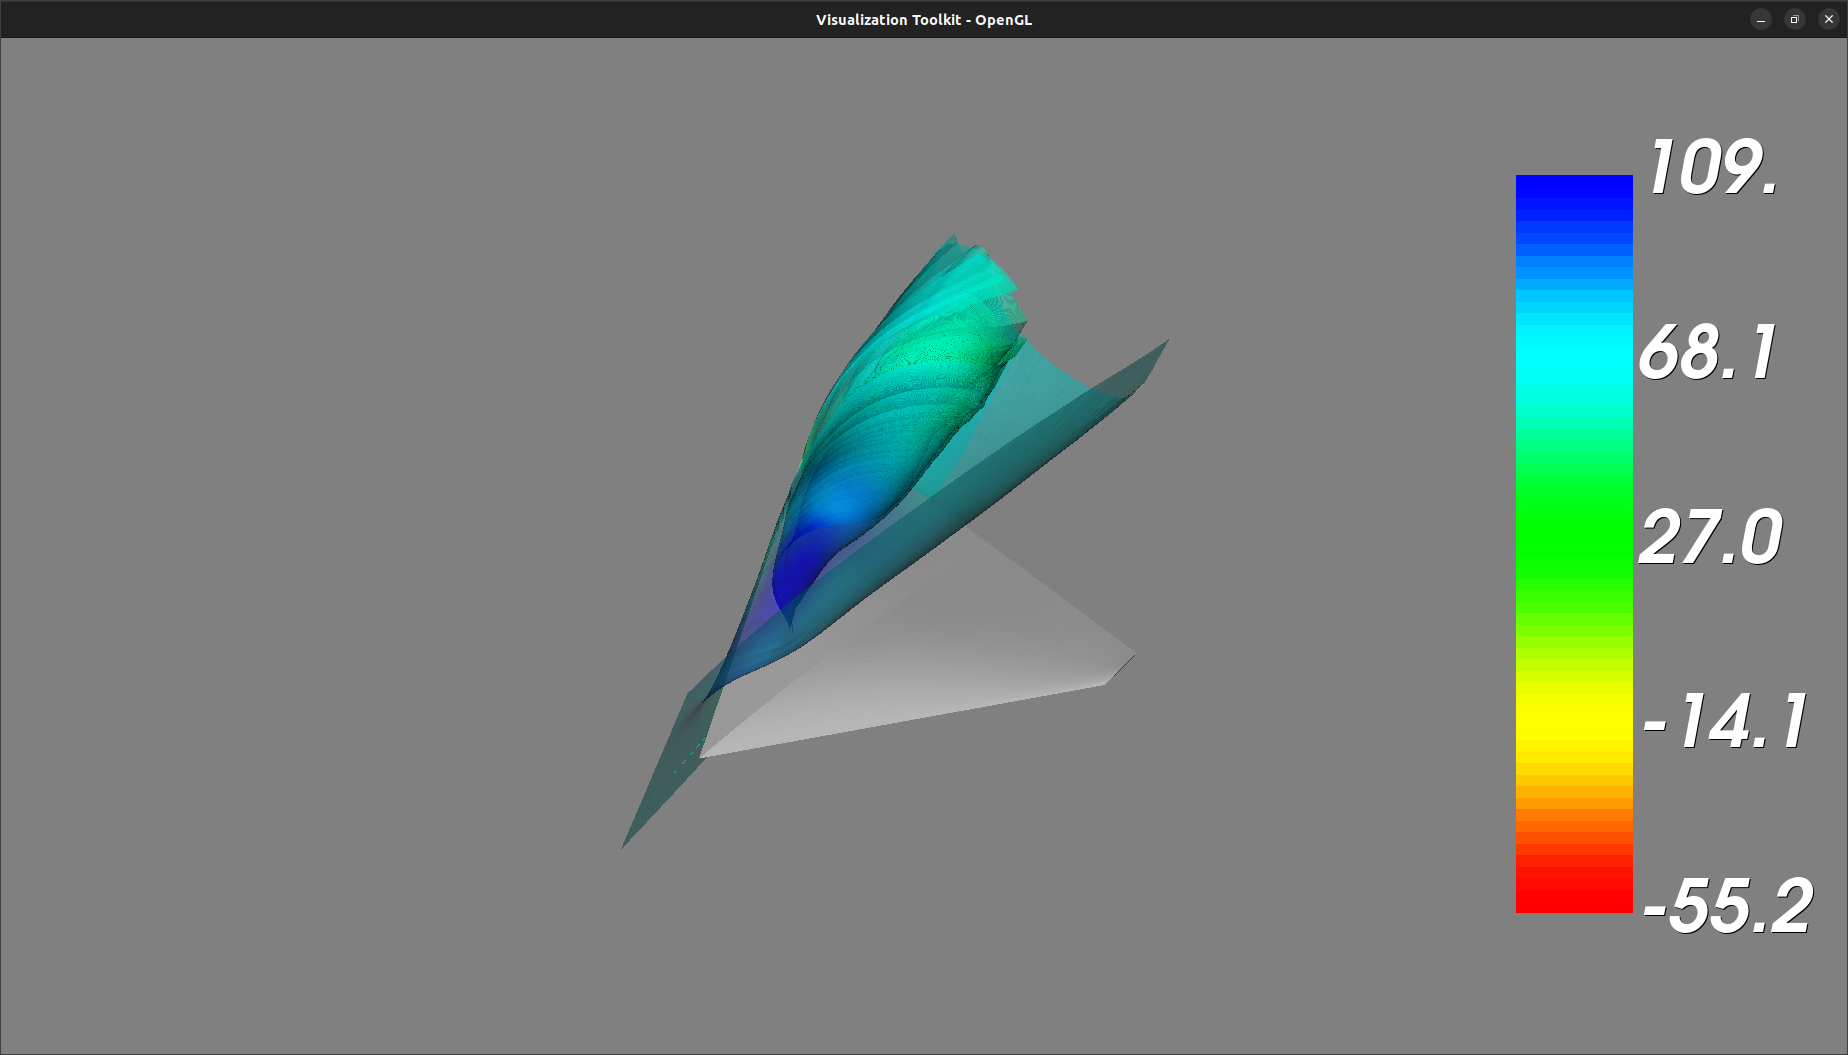
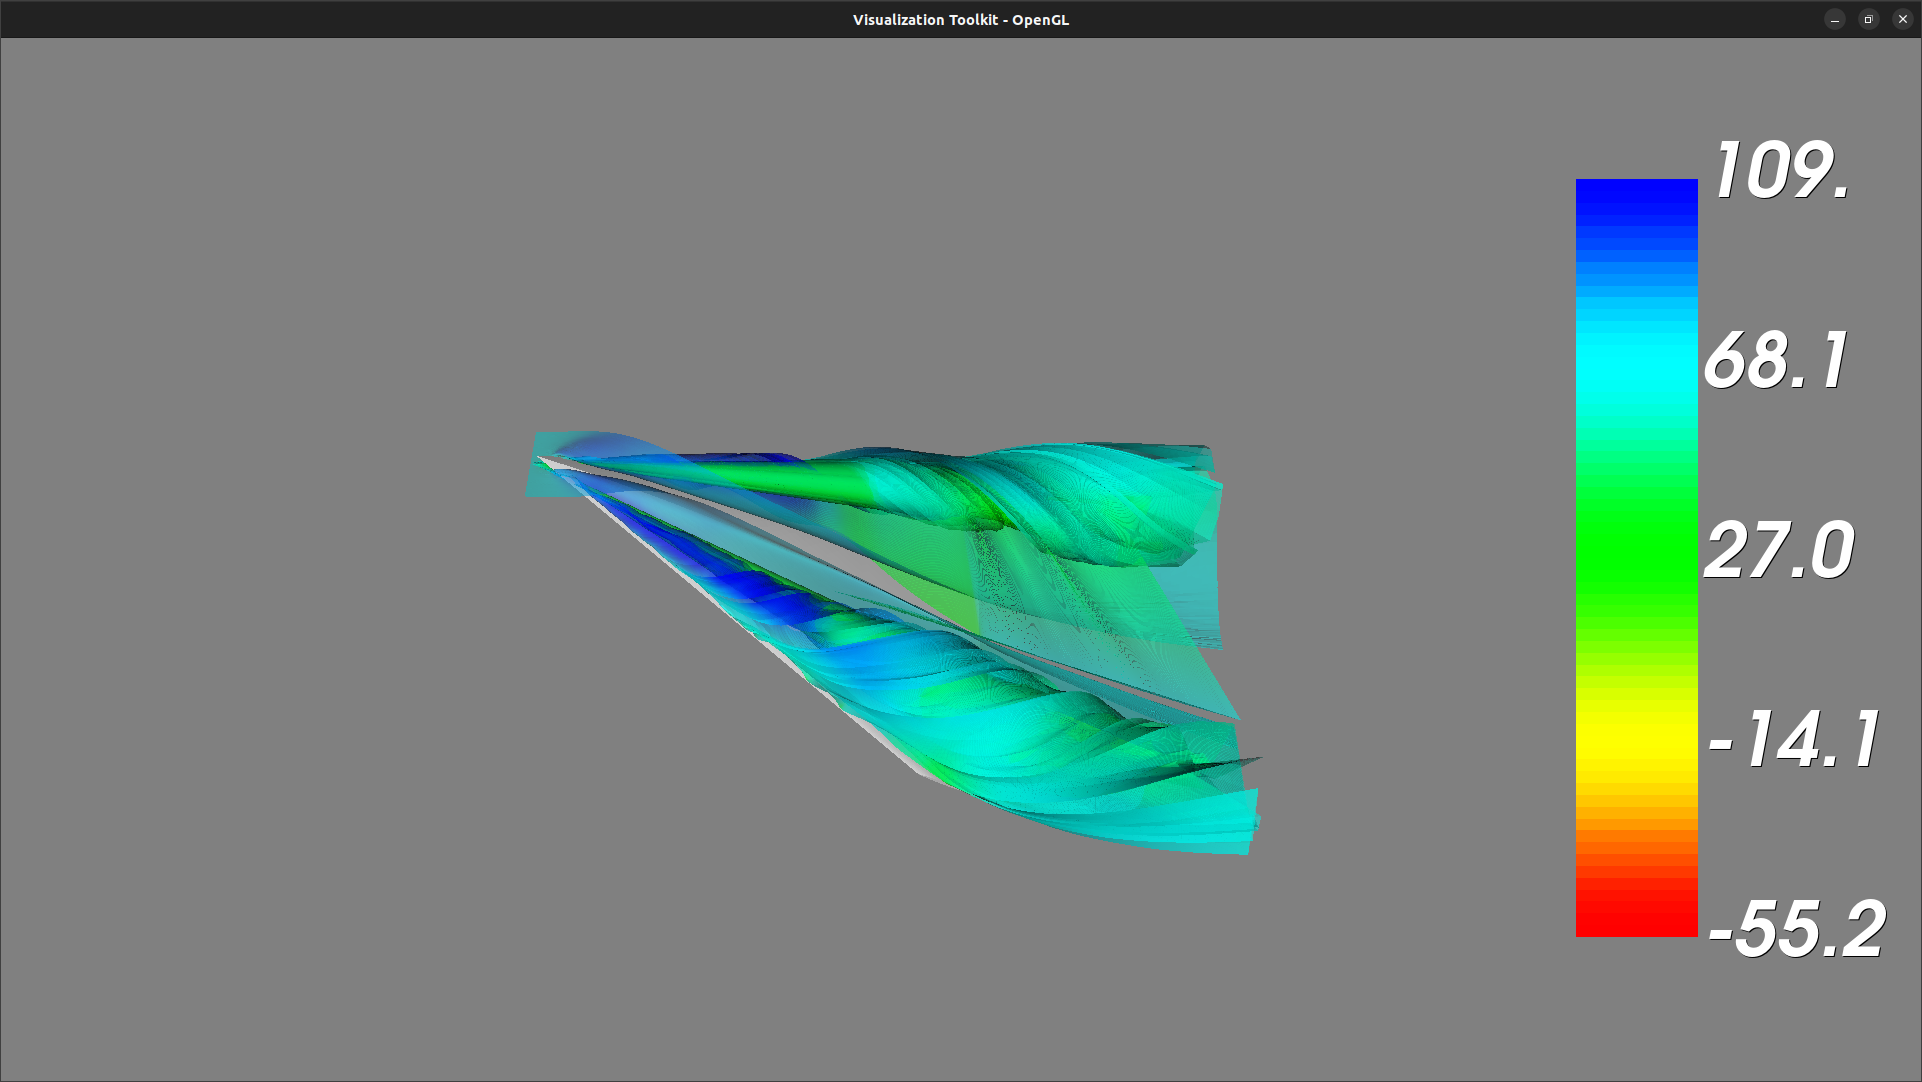
feat: update stream surfaces to render two spirals

diff --git a/streamsurfaces.py b/streamsurfaces.py
@@ -22,9 +22,9 @@ def main():
     seeds.SetResolution(300)
 
     trans = vtkTransform()
-    trans.RotateY(90)
-    trans.Scale(0.25, 1, 1)
-    trans.Translate(0.25, 0.04, 0)
+    trans.RotateZ(90)
+    trans.Scale(0.1, 1, 1)
+    trans.Translate(0, 0, -0.015)
 
     tpd_filter = vtkTransformPolyDataFilter()
     tpd_filter.SetInputConnection(seeds.GetOutputPort())
